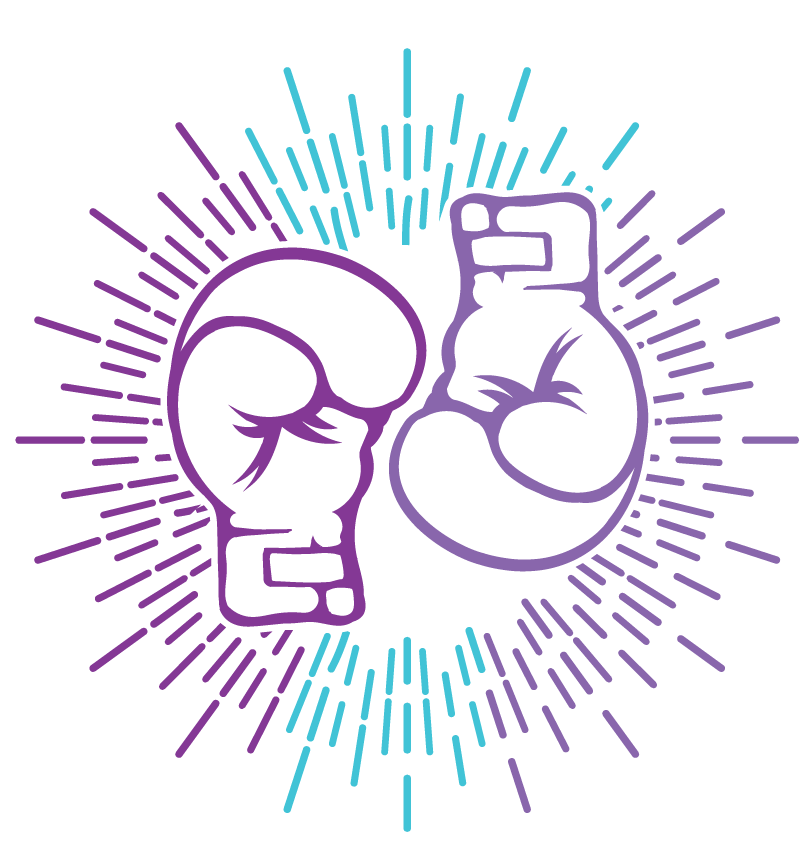
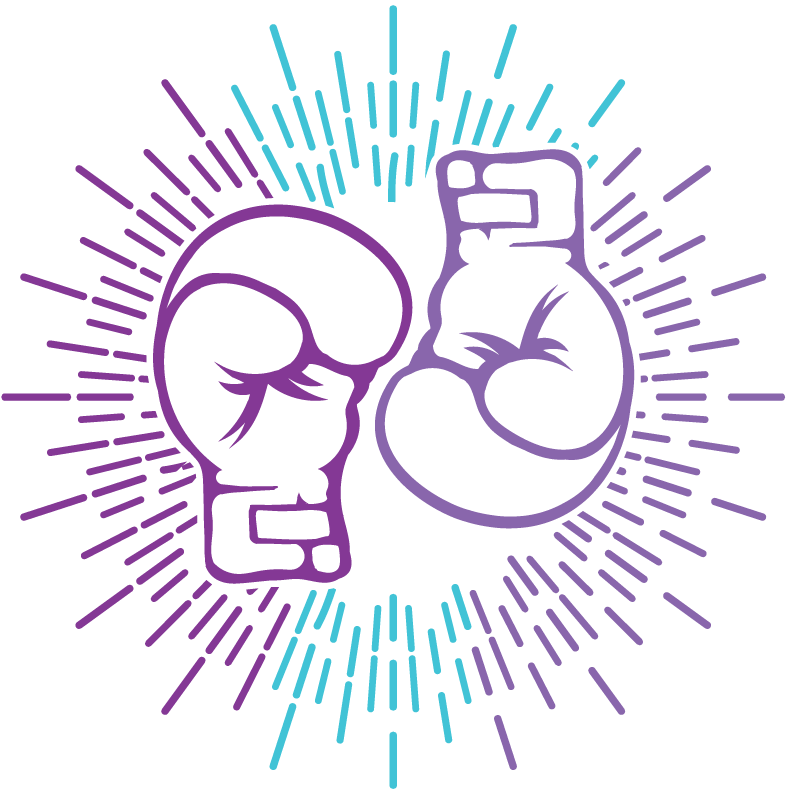
resizing ppv

diff --git a/index.html b/index.html
@@ -412,7 +412,7 @@
 					class="col-lg-4 col-md-8 col-sm-10 d-flex  justify-content-center align-items-stretch text-center">
 					<div class="px-45 pt-50 pb-60 radius10 mb-30 block bg-gradient-3 w-full border-neon-3 d-flex align-content-between flex-wrap"
 						data-aos="zoom-in" data-aos-delay="750">
-						<img class="w-150 m-auto" src="/uploads/PPV-Web-Icon.png" alt="PPV Web Icon" />
+						<img class="w-200 m-auto" src="/uploads/PPV-Web-Icon.png" alt="PPV Web Icon" />
 						<h4 class="mt-20 mb-0 w-full">
 							Pay-Per-View
 						</h4>
